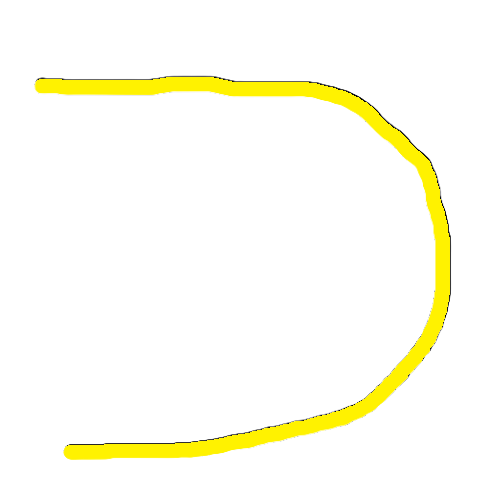
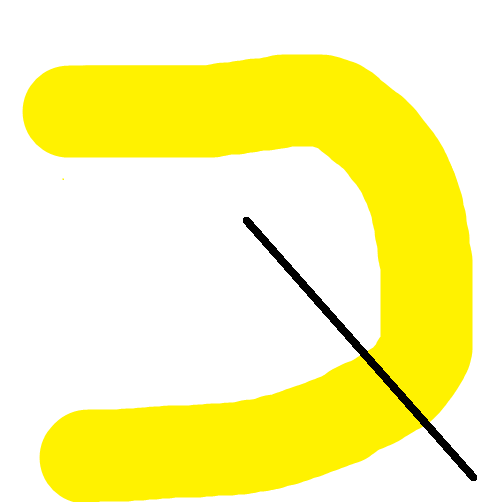
arm3

diff --git a/src/main/java/org/example/ARM1.java b/src/main/java/org/example/ARM1.java
@@ -9,19 +9,57 @@ import javafx.scene.shape.Arc;
 import javafx.scene.text.Font;
 import javafx.scene.text.Text;
 
-public class ARM1 extends AntiRadiationMissile {
+public class ARM1 extends AntiRadiationMissile { // ARM1 is related to the second grafic{
     int i = 0;
 
     ARM1(double x, double y, ImageView view1, ImageView view2, int height, double azimuth) {
         super(x,y,view1,view2, height, azimuth);
-        speed = 4;
-        speedKmPerSecond.setValue(1);
-        targetCrossSection.setValue(0.1);
+        speed = 6;
+        targetCrossSection.setValue(0.3);
+        speedKmPerSecond.setValue(1500);
     }
 
     @Override
     boolean update(double dt, double targetX, double targetY, BooleanProperty radarOn, Arc sector, Pane interceptorLayer, Pane missileLayer) {
+        diveAngle.setValue(0);
+//        if(distanceInKm.getValue() > 90) {
+//            view.setVisible(false);
+//            view3.setVisible(true);
+//        } else {
+//            view3.setVisible(false);
+//            view.setVisible(true);
+//        }
+        System.out.println("distance " + distanceInKm.getValue() + "heigth " + heightProperty().getValue());
+            System.out.println("-----------------------------------------------------------------------");
+            double a = (-0.0072*Math.pow((distanceInKm.getValue() - 50),2) + 18);
+            a*=1000;
+            height.setValue(a);
+            double slope = (-0.0144) * (distanceInKm.getValue() - 50);
+            double angle = Math.toDegrees(Math.atan(slope));
+            diveAngle.setValue(angle);
+        i++;
+        if(i>100000000) {
+            i = 0;
+        }
+        if(i%1000 == 0) {
+            int random = (int)(Math.random() * (200)) + 1450;
+            speedKmPerSecond.set(random);
+        }
 
+        if (height.getValue() > maxHeight) {
+            maxHeight = height.getValue();
+        }
+        if(distanceInKm.getValue() <= Tab76.range && maxHeight >= Tab76.altitude && Math.abs(diveAngle.get())>=Tab76.diveAngle && targetCrossSection.get()>= Tab76.targetCrossSeqtion && approachAngle.get()<= Tab76.approachAngle && speedKmPerSecond.get()>= Tab76.speed) {
+            view.setVisible(false);
+            view = view2;
+            view.setVisible(true);
+        }
+        // distanceInKm.set((int)((600 * distance.get()) / 140));
+        distanceInKm.set((int)( (distance.get()) / 4 ));
+        if(Buttons.safeModeOn.get() == false && distance.get() <= 300 && isEngaged == false && FirstTable.rocketsCount > 0) {
+            isEngaged = true;
+            AntiRadiationMissile.launchRocket(interceptorLayer, sector, id);
+        }
         double dx, dy;
         if (radarOn.get()) {
             label.setVisible(true);// радар включён
@@ -63,29 +101,24 @@ public class ARM1 extends AntiRadiationMissile {
         double angle = 60 + 65 * Math.random();//Начальный угол 60(start angle + 15) конечный угол 125(start angle + 80)
         //System.out.println(angle);
         double x = sector.getCenterX()
-                + ((sector.getRadiusX()*(4.3/5)) ) * Math.cos(Math.toRadians(angle));
+                + ((sector.getRadiusX()*(4.4/5)) ) * Math.cos(Math.toRadians(angle));
 
         double y = sector.getCenterY()
-                - ((sector.getRadiusX()*(4.3/5)) )* Math.sin(Math.toRadians(angle));
+                - ((sector.getRadiusX()*(4.4/5)) )* Math.sin(Math.toRadians(angle));
 
-        Image img = new Image("E:/диплом/app/armSimulator/src/main/resources/arm.png"
+        Image img = new Image("E:/диплом/app/armSimulator/src/main/resources/aerodynamic.png"
         );
         Image img2 = new Image("E:/диплом/app/armSimulator/src/main/resources/arm_defined.png"
         );
-        Image img3 = new Image("E:/диплом/app/armSimulator/src/main/resources/plane.png"
-        );
         ImageView view = new ImageView(img);
         ImageView view2 = new ImageView(img2);
-        ImageView view3 = new ImageView(img3);
         view.setFitWidth(28);
         view.setPreserveRatio(true);
         view2.setFitWidth(28);
         view2.setPreserveRatio(true);
-        view3.setFitWidth(28);
-        view3.setPreserveRatio(true);
         ARM1 m = new ARM1(x, y, view, view2,25000, angle);
 //        m.angle = angle;
-        missileLayer.getChildren().addAll(view,view2,view3);
+        missileLayer.getChildren().addAll(view,view2);
         view2.setVisible(false);
         //создаем текст номера ракеты
         Text label = m.label;

diff --git a/src/main/java/org/example/ARM2.java b/src/main/java/org/example/ARM2.java
@@ -9,20 +9,22 @@ import javafx.scene.shape.Arc;
 import javafx.scene.text.Font;
 import javafx.scene.text.Text;
 
-public class ARM3 extends AntiRadiationMissile {// ARM3 is related to the first grafic{
+public class ARM2 extends AntiRadiationMissile {// ARM3 is related to the first grafic{
     int i = 0;
-    ARM3(double x, double y, ImageView view1, ImageView view2, int height, double azimuth) {
+    ARM2(double x, double y, ImageView view1, ImageView view2, int height, double azimuth) {
         super(x,y,view1,view2,height, azimuth);
-        speed = 4;
-        speedKmPerSecond.setValue(1000);
-        targetCrossSection.setValue(0.1);
+        speed = 8;
+        speedKmPerSecond.setValue(2000);
+        targetCrossSection.setValue(0.6);
         this.height.setValue(height);
     }
 
     @Override
     boolean update(double dt, double targetX, double targetY, BooleanProperty radarOn, Arc sector, Pane interceptorLayer, Pane missileLayer) {
-        height.setValue(1500);
-        diveAngle.setValue(0);
+        if (distanceInKm.getValue()>70) {
+            height.setValue(8000);
+        }
+//        diveAngle.setValue(0);
 //        if(distanceInKm.getValue() > 90) {
 //            view.setVisible(false);
 //            view3.setVisible(true);
@@ -30,13 +32,13 @@ public class ARM3 extends AntiRadiationMissile {// ARM3 is related to the first 
 //            view3.setVisible(false);
 //            view.setVisible(true);
 //        }
-        System.out.println("distance " + distanceInKm.getValue() + "heigth " + heightProperty().getValue());
-        if(distanceInKm.getValue() <= 90) {
+        System.out.println("hi distance " + distanceInKm.getValue() + "heigth " + heightProperty().getValue() + "slope " + diveAngle.get());
+        if(distanceInKm.getValue() <= 70) {
             System.out.println("-----------------------------------------------------------------------");
-            double a = (-35.0/2025)*Math.pow((distanceInKm.getValue() - 45),2) + 35;
+            double a = distanceInKm.getValue() * 0.1142857142857143 ;
             a*=1000;
             height.setValue(a);
-            double slope = (-14.0/405) * (distanceInKm.getValue() - 45);
+            double slope = 0.1142857142857143;
             double angle = Math.toDegrees(Math.atan(slope));
             diveAngle.setValue(angle);
         }
@@ -45,7 +47,7 @@ public class ARM3 extends AntiRadiationMissile {// ARM3 is related to the first 
             i = 0;
         }
         if(i%1000 == 0) {
-            int random = (int)(Math.random() * (1100 - 950 + 1)) + 950;
+            int random = (int)(Math.random() * (400)) + 1800;
             speedKmPerSecond.set(random);
         }
 
@@ -123,7 +125,7 @@ public class ARM3 extends AntiRadiationMissile {// ARM3 is related to the first 
         view.setVisible(true);
         view2.setFitWidth(28);
         view2.setPreserveRatio(true);
-        ARM3 m = new ARM3(x, y, view, view2,1500, angle);
+        ARM2 m = new ARM2(x, y, view, view2,8000, angle);
 //        m.angle = angle;
         missileLayer.getChildren().addAll(view,view2);
         view2.setVisible(false);

diff --git a/src/main/java/org/example/Main.java b/src/main/java/org/example/Main.java
@@ -42,6 +42,7 @@ public class Main extends Application {
         Button trackAmplificationData = Buttons.createTrackAmplificationButton(root);
         Button createARM1 = createARM1Button(root, missileLayer, sector);
         Button createARM3 = createARM3Button(root, missileLayer, sector);
+        Button createARM2 = createARM2Button(root, missileLayer, sector);
 
         root.setStyle("-fx-background-color: black;");
         root.setAlignment(rocketsLabel, Pos.TOP_RIGHT);
@@ -52,7 +53,8 @@ public class Main extends Application {
         root.getChildren().addAll(missileLayer,interceptorLayer);
         root.setAlignment(launchButton, Pos.BOTTOM_RIGHT);
         root.setAlignment(radarButton, Pos.BOTTOM_LEFT);
-        root.getChildren().addAll(radarButton,launchButton,safeModeButton,tab76Button, trackAmplificationData, createARM1, createARM3, object);
+        root.getChildren().addAll(radarButton,launchButton,safeModeButton,tab76Button,
+                trackAmplificationData, createARM1, createARM3, createARM2, object);
         Buttons.radarOnAddListener();
         AnimationTimer timer = Buttons.createTimer( sector, missileLayer, interceptorLayer);
         timer.start();
@@ -90,6 +92,17 @@ public class Main extends Application {
         button.setPrefHeight(40);
         button.setOnAction(e -> {
             Buttons.missiles.add(ARM3.spawnMissileARM1(misseleLayer, sector));
+        });
+        return button;
+    }
+    public static Button createARM2Button(StackPane sp, Pane misseleLayer, Arc sector) {
+        Button button = new Button("Create ARM2");
+        sp.setAlignment(button, Pos.TOP_LEFT);
+        sp.setMargin(button, new Insets(150,0,0,0));
+        button.setPrefHeight(40);
+        button.setPrefHeight(40);
+        button.setOnAction(e -> {
+            Buttons.missiles.add(ARM2.spawnMissileARM1(misseleLayer, sector));
         });
         return button;
     }
